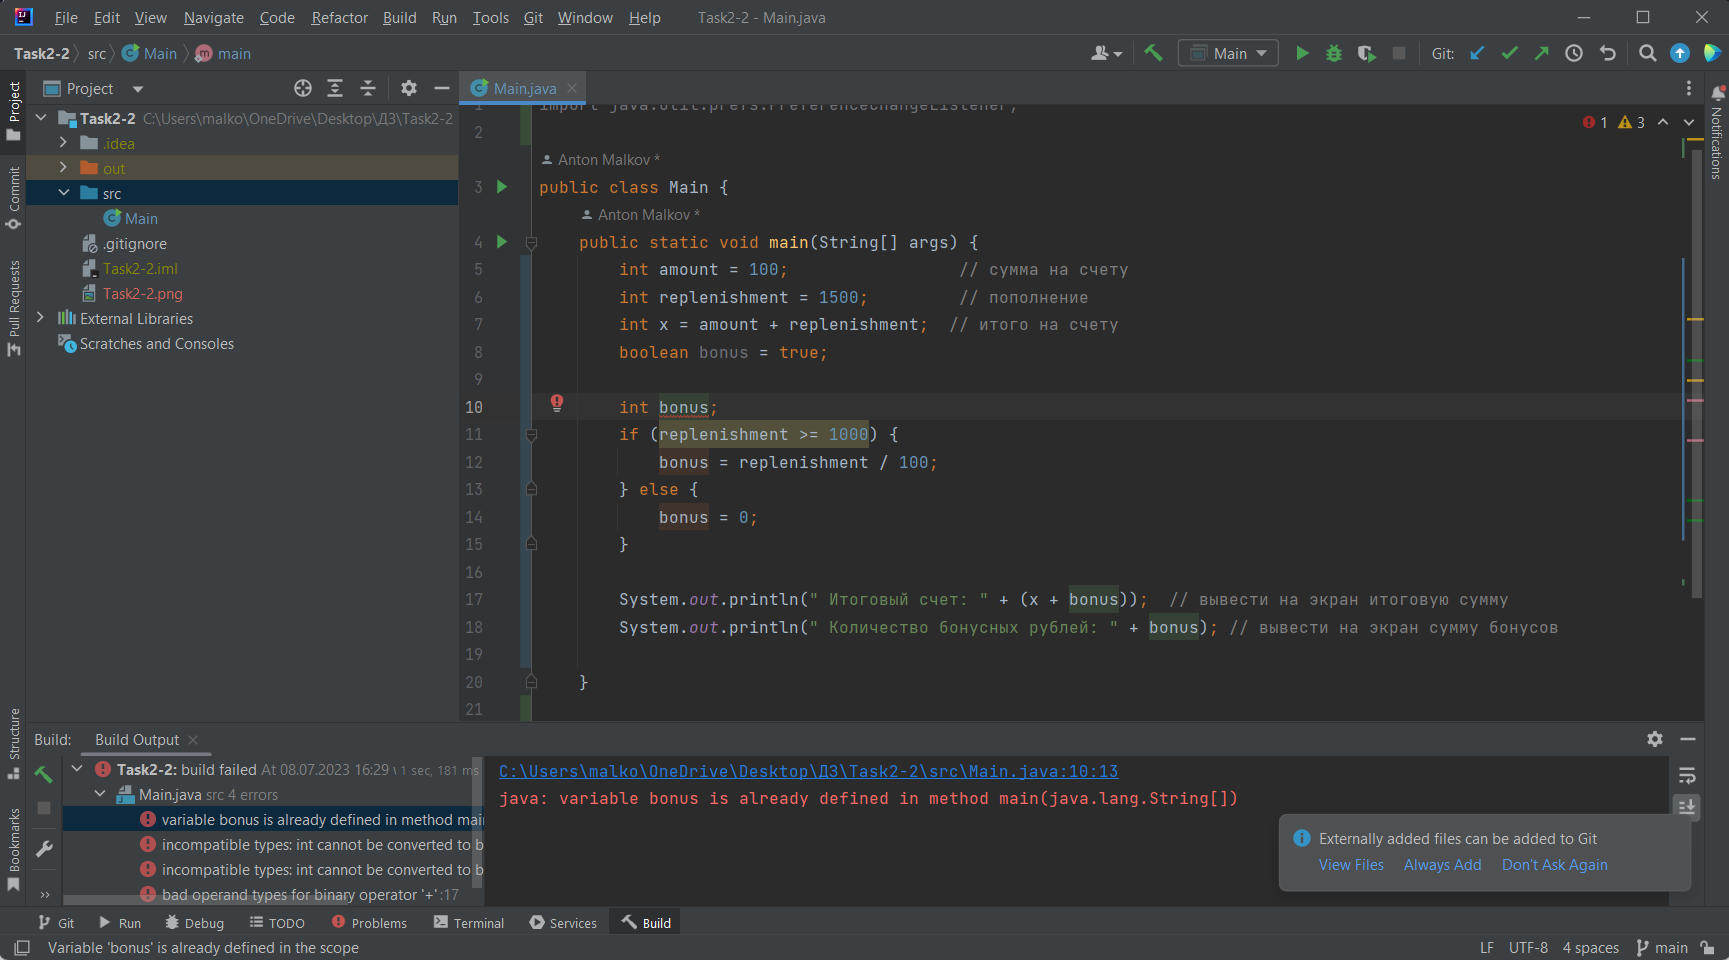
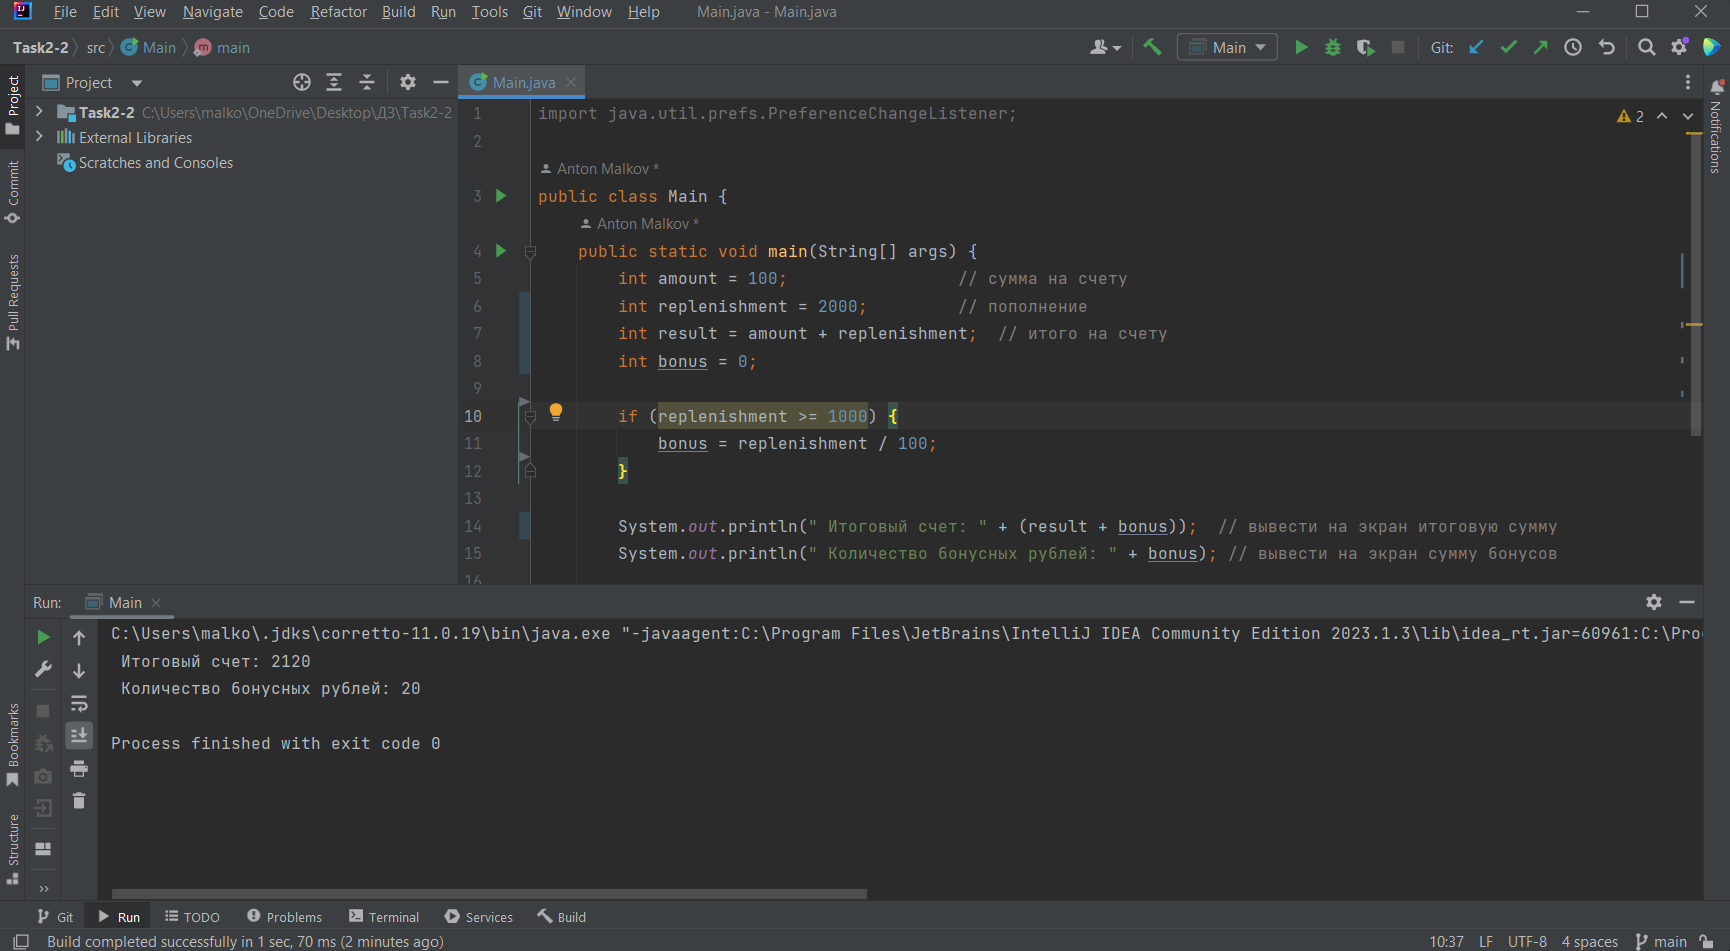
code replacement

diff --git a/src/Main.java b/src/Main.java
@@ -3,18 +3,15 @@ import java.util.prefs.PreferenceChangeListener;
 public class Main {
     public static void main(String[] args) {
         int amount = 100;                 // сумма на счету
-        int replenishment = 1500;         // пополнение
-        int x = amount + replenishment;  // итого на счету
-        boolean bonus = true;
+        int replenishment = 2000;         // пополнение
+        int result = amount + replenishment;  // итого на счету
+        int bonus = 0;
 
-        int bonus;
         if (replenishment >= 1000) {
             bonus = replenishment / 100;
-        } else {
-            bonus = 0;
         }
 
-        System.out.println(" Итоговый счет: " + (x + bonus));  // вывести на экран итоговую сумму
+        System.out.println(" Итоговый счет: " + (result + bonus));  // вывести на экран итоговую сумму
         System.out.println(" Количество бонусных рублей: " + bonus); // вывести на экран сумму бонусов
 
     }
